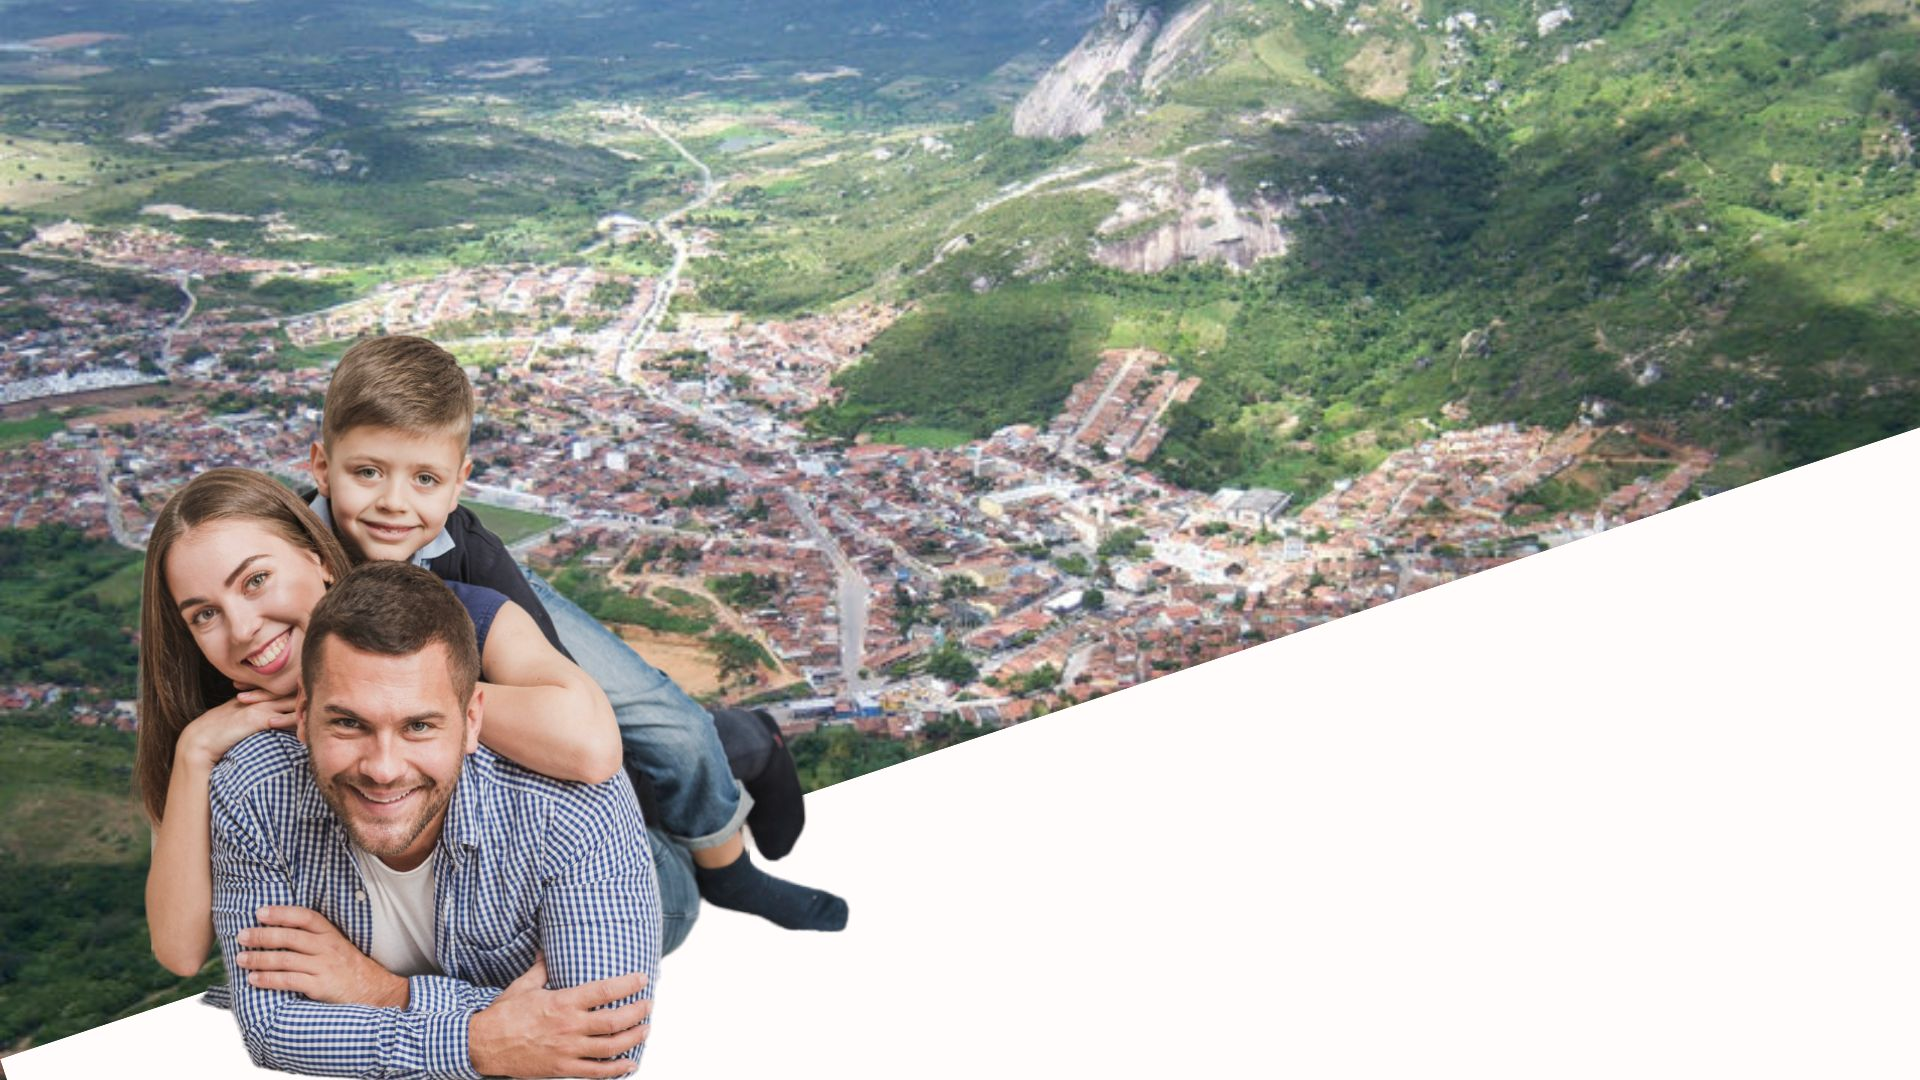
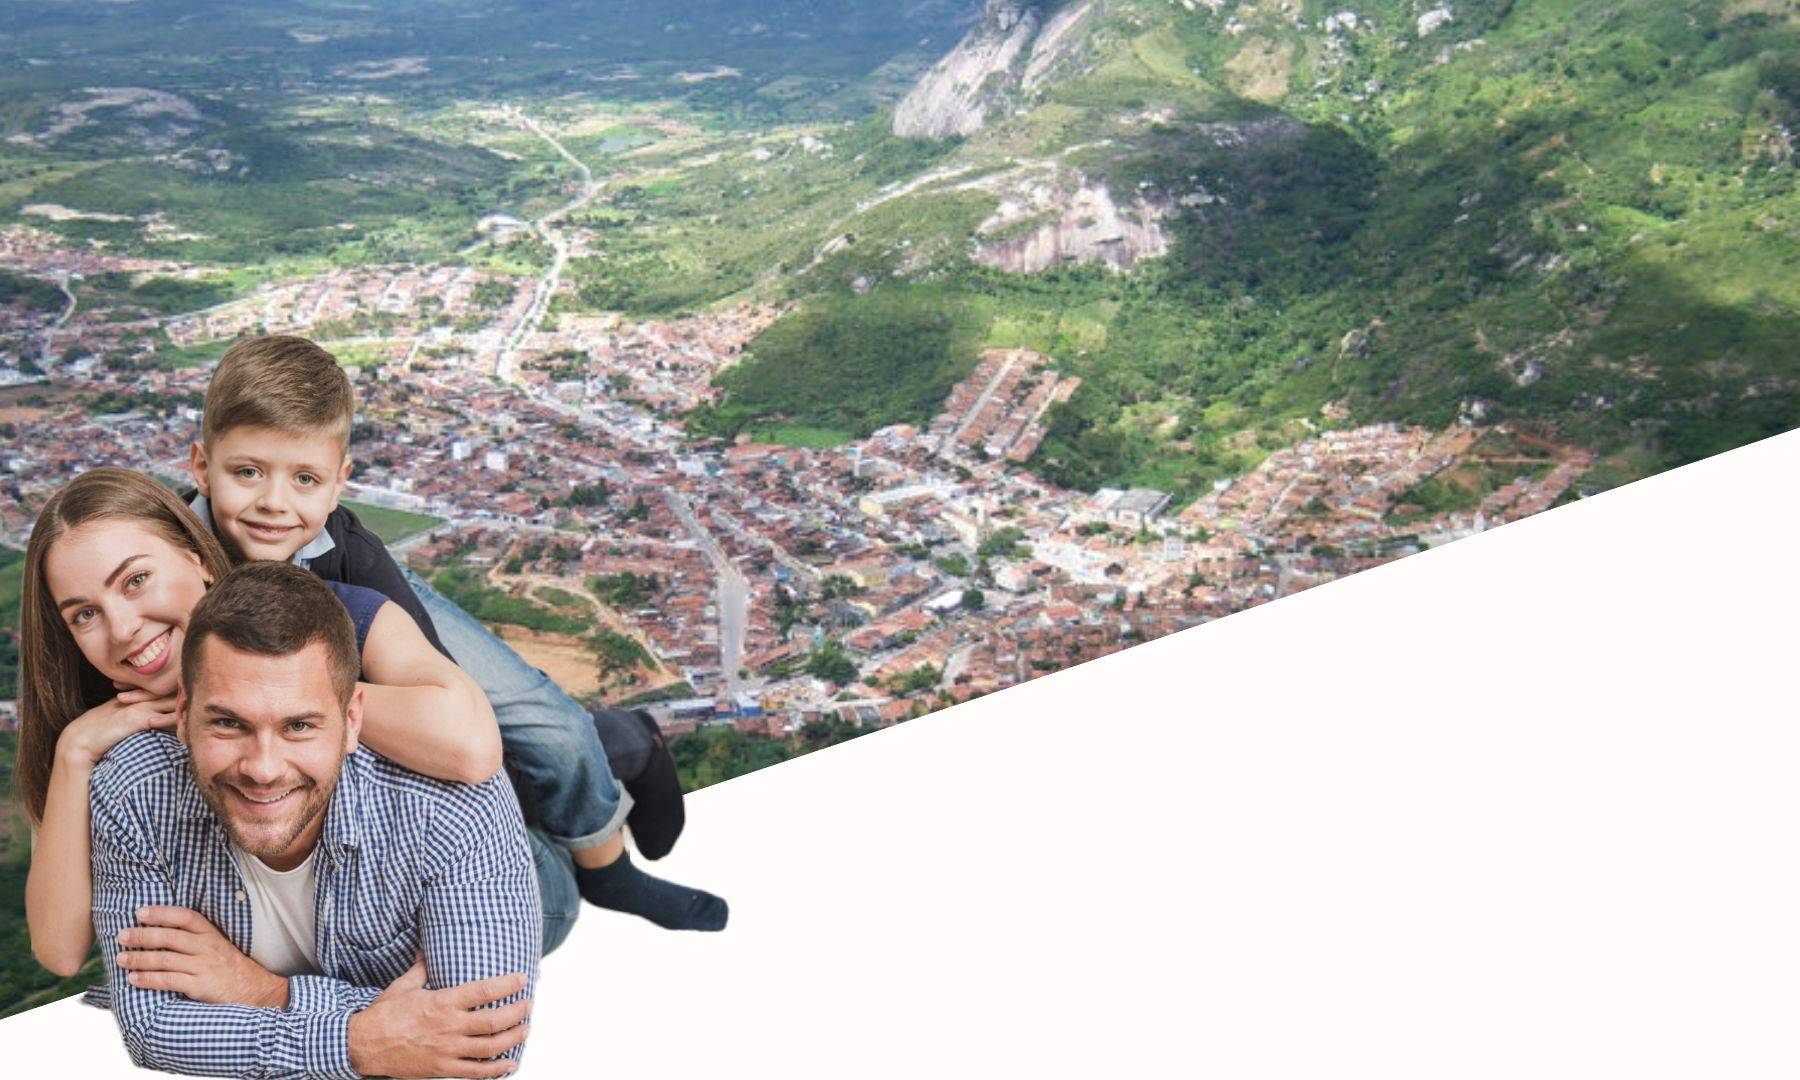
baner

diff --git a/media.css b/media.css
@@ -7,7 +7,7 @@
 
 @media (min-width: 666px) {
     #baner {
-        background-image: url("/gallery/baner-lote\ \(1\).jpg");
+        background-image: url("/gallery/baner-lote.jpg");
         background-size: cover;
         background-position: center left;
         height: 100vh;
@@ -86,7 +86,7 @@
 
 @media (max-width: 396px) {
     #baner {
-        background-image: url("/gallery/Design\ sem\ nome\ \(1\).jpg");
+        background-image: url("/gallery/baner-phone.jpg");
         background-size: cover;
         background-position: center left;
         height: 85vh;
